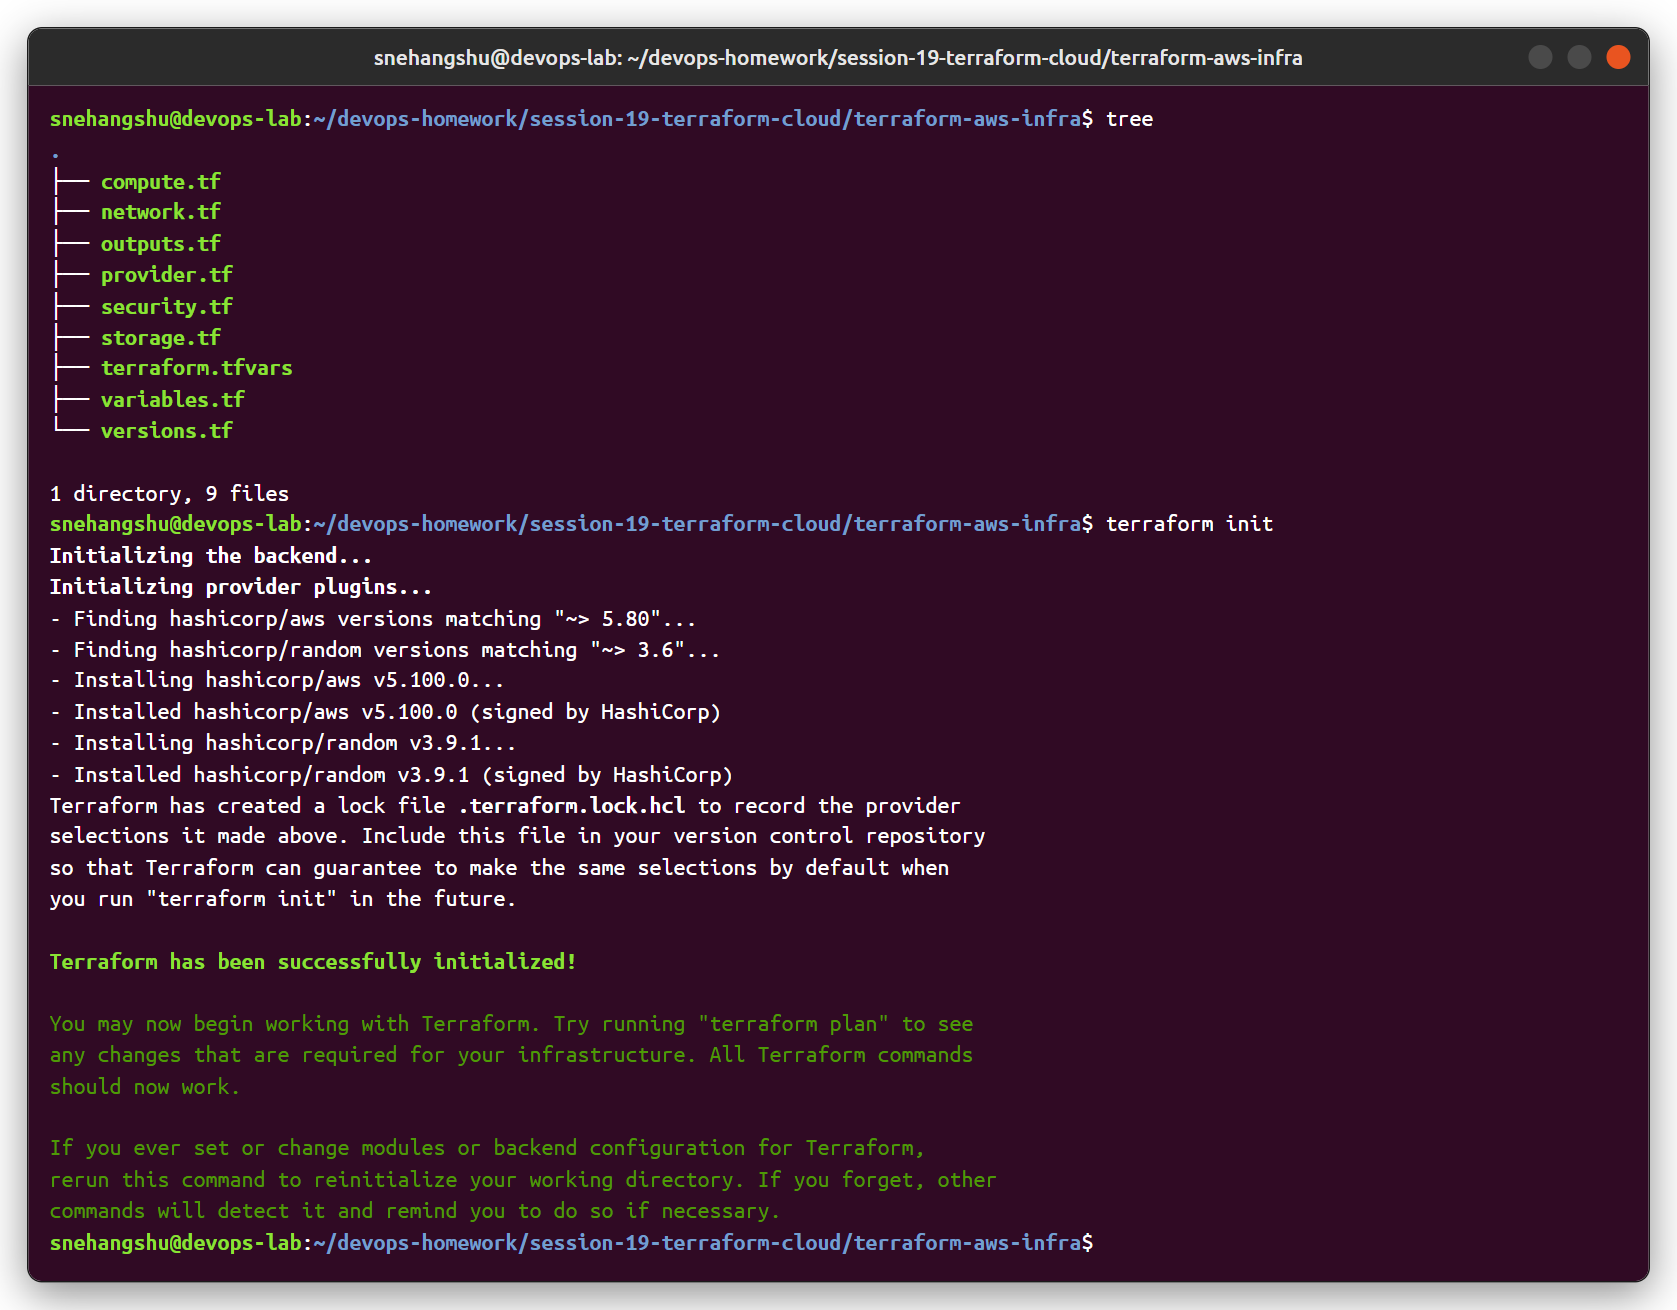
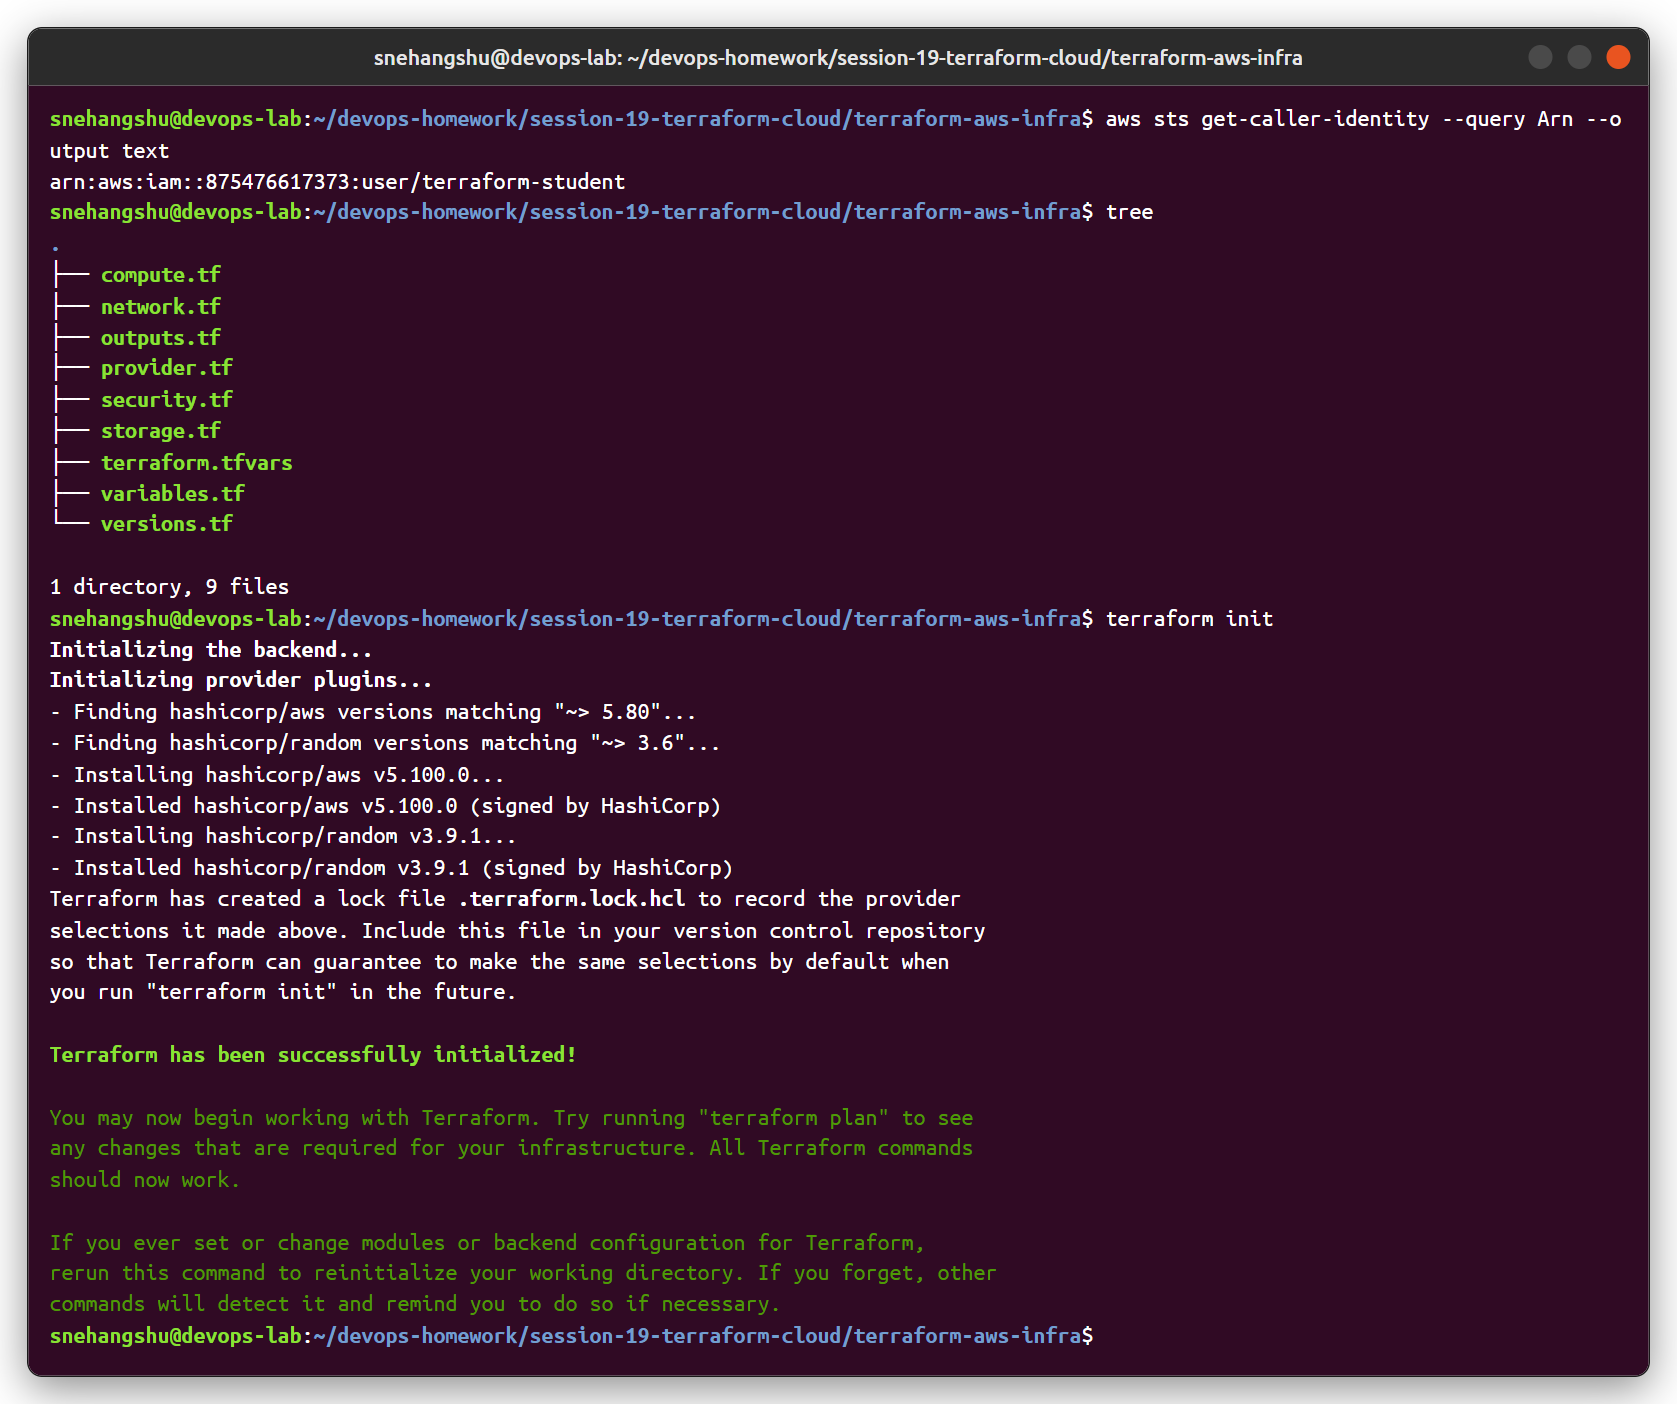
session 19: deploy vpc/ec2/s3 on real aws, add console screenshots

Changed region(s): [[0.031, 0.0305, 0.9922, 0.9771], [0.4961, 0.1221, 0.5581, 0.1527], [0.6202, 0.1221, 0.6512, 0.1527]]

diff --git a/session-19-terraform-cloud/README.md b/session-19-terraform-cloud/README.md
@@ -16,7 +16,7 @@ Project: [`terraform-aws-infra/`](terraform-aws-infra)
 | [storage.tf](terraform-aws-infra/storage.tf) | S3 bucket (random suffix), versioning, public access block |
 | [outputs.tf](terraform-aws-infra/outputs.tf) | **Outputs**: IDs, public IP, AMI, bucket name |
 
-> Same as session 18, the AWS provider points to **LocalStack** (local AWS emulator), so this ran without an AWS account. EC2 in LocalStack is emulated (the API works and returns real-looking IDs and IPs, but no VM actually boots). Removing the endpoint/dummy-key lines in `provider.tf` makes the same code deploy to a real AWS account.
+> Deployed to a **real AWS account** (free plan), region `ap-south-1`, as the IAM user `terraform-student` (credentials from `aws configure`, nothing hard-coded). EC2 is a `t3.micro` running Ubuntu 24.04 (latest Canonical AMI found with a data source). Everything was destroyed at the end.
 
 ## Architecture
 
@@ -90,6 +90,28 @@ VPC, both subnets, the route `0.0.0.0/0 → igw-...`, the security group rules, 
 
 ![verify](screenshots/06-verify-aws-cli.png)
 
+The nginx page installed by `user_data`, opened in the browser on the instance's public IP:
+
+![browser ec2](screenshots/06b-browser-ec2.png)
+
+### Same resources in the AWS console
+
+VPC `yatri-dev-vpc` (10.10.0.0/16):
+
+![console vpc](screenshots/09-console-vpc.png)
+
+Public subnet in ap-south-1a and private subnet in ap-south-1b (the three unnamed `172.31.x.x` ones belong to the account's default VPC, not to Terraform):
+
+![console subnets](screenshots/10-console-subnets.png)
+
+EC2 instance `yatri-dev-web` (t3.micro, running):
+
+![console ec2](screenshots/11-console-ec2.png)
+
+S3 bucket `yatri-dev-assets-...`:
+
+![console s3](screenshots/12-console-s3.png)
+
 ## 7. Changing infrastructure
 
 Changing only `allowed_ssh_cidr` → plan shows **1 to change** (security group updated in place, nothing recreated). An invalid `instance_type` is rejected by the variable validation before any API call.
@@ -98,7 +120,7 @@ Changing only `allowed_ssh_cidr` → plan shows **1 to change** (security group 
 
 ## 8. `terraform destroy`
 
-Everything is deleted in reverse dependency order and the state is empty.
+All 12 resources are deleted in reverse dependency order (EC2 first, VPC last) and the state is empty, so nothing keeps running on the account.
 
 ![destroy](screenshots/08-destroy.png)
 

diff --git a/README.md b/README.md
@@ -32,5 +32,5 @@ Every session folder has a `README.md` with the commands, the real output (scree
 - Windows 11 + Docker Desktop
 - An Ubuntu 24.04 container (`devops-lab`) as the Linux workstation for the Linux/shell/networking/git labs and as the CLI box for docker, kubectl, helm, terraform, aws
 - Kubernetes: Minikube (session 9), kind multi-node clusters (sessions 10-21)
-- AWS: LocalStack emulator (sessions 18, 19, 21) - no AWS account
+- AWS: real AWS account, region ap-south-1 (sessions 18, 19 - destroyed after the screenshots); LocalStack emulator for the session 21 project
 - CI/CD: GitHub Actions in this repo ([workflows](.github/workflows)), images in GHCR
